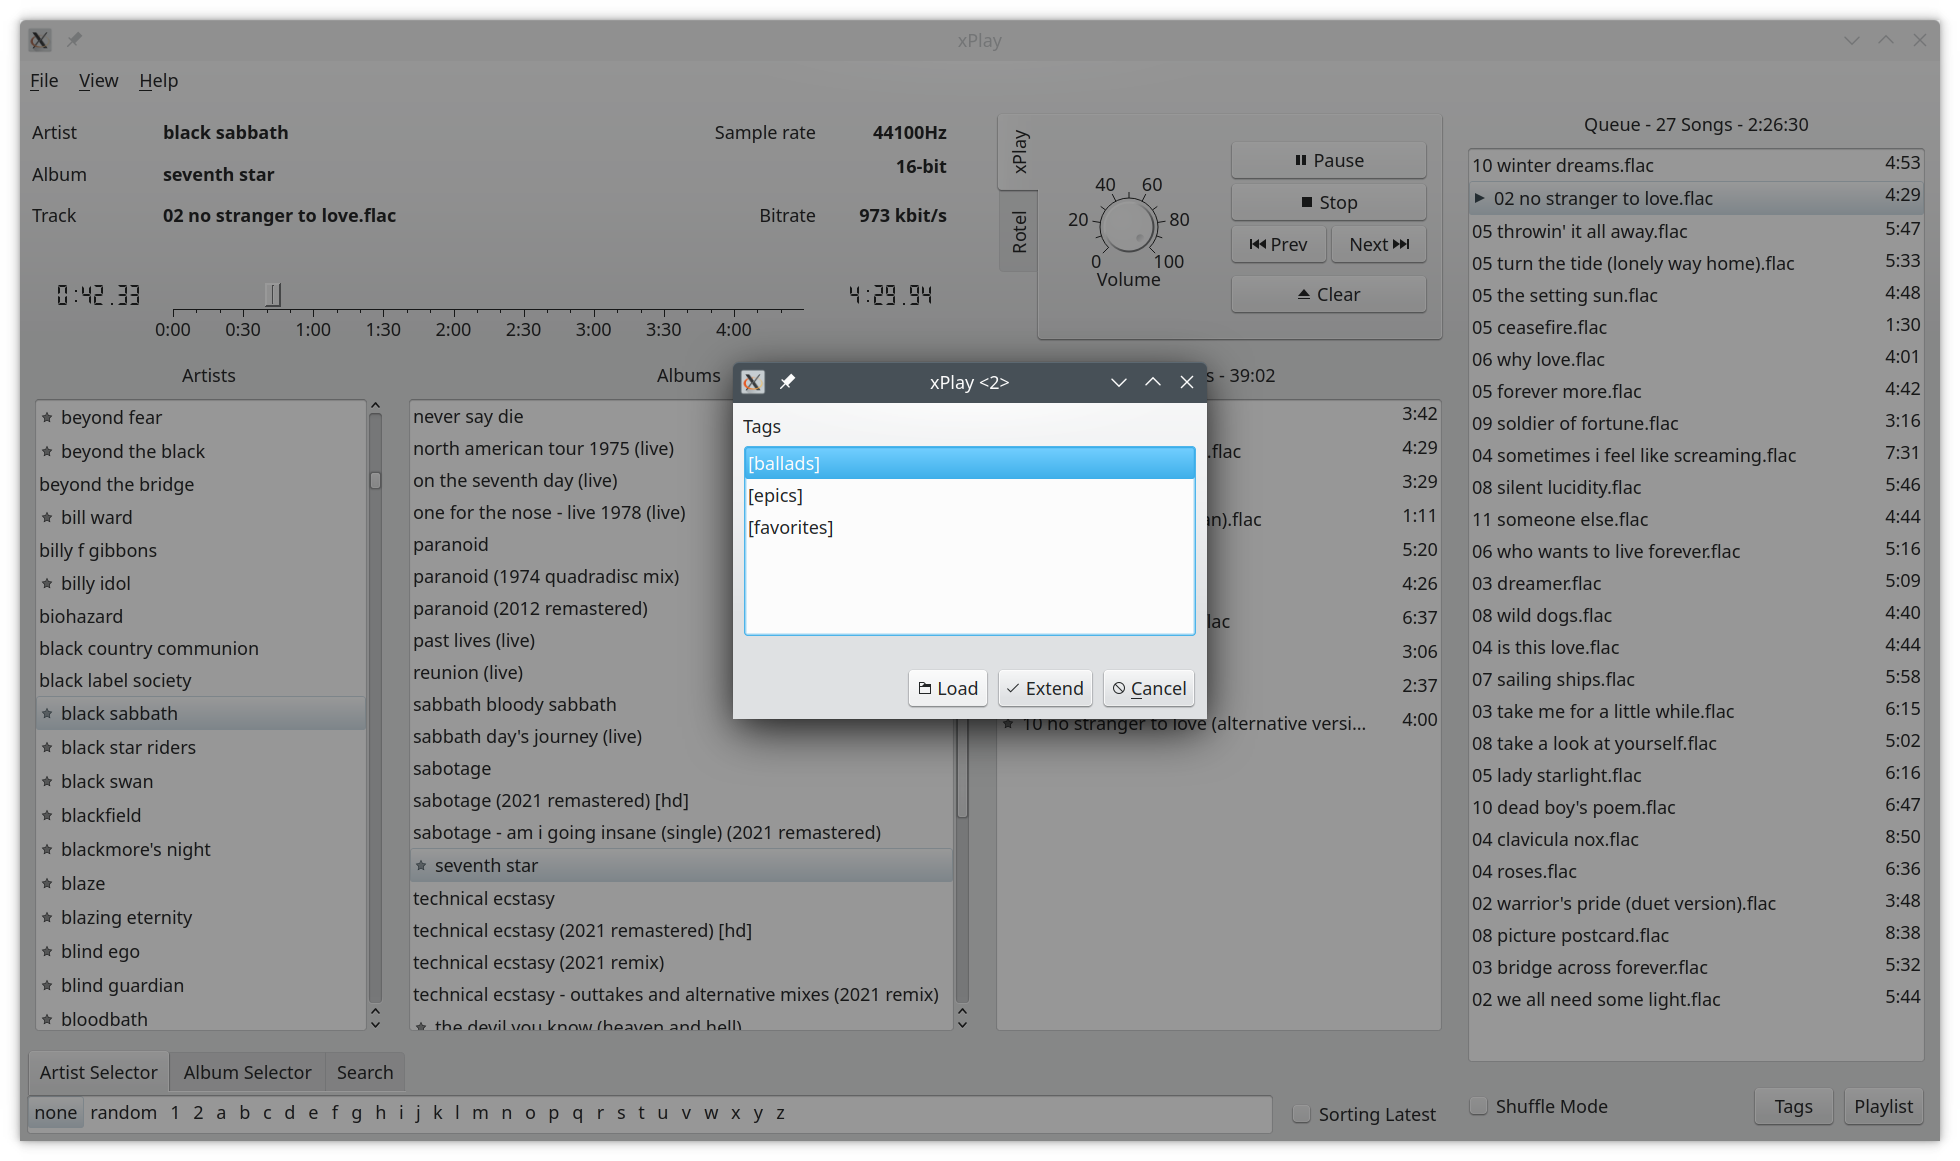
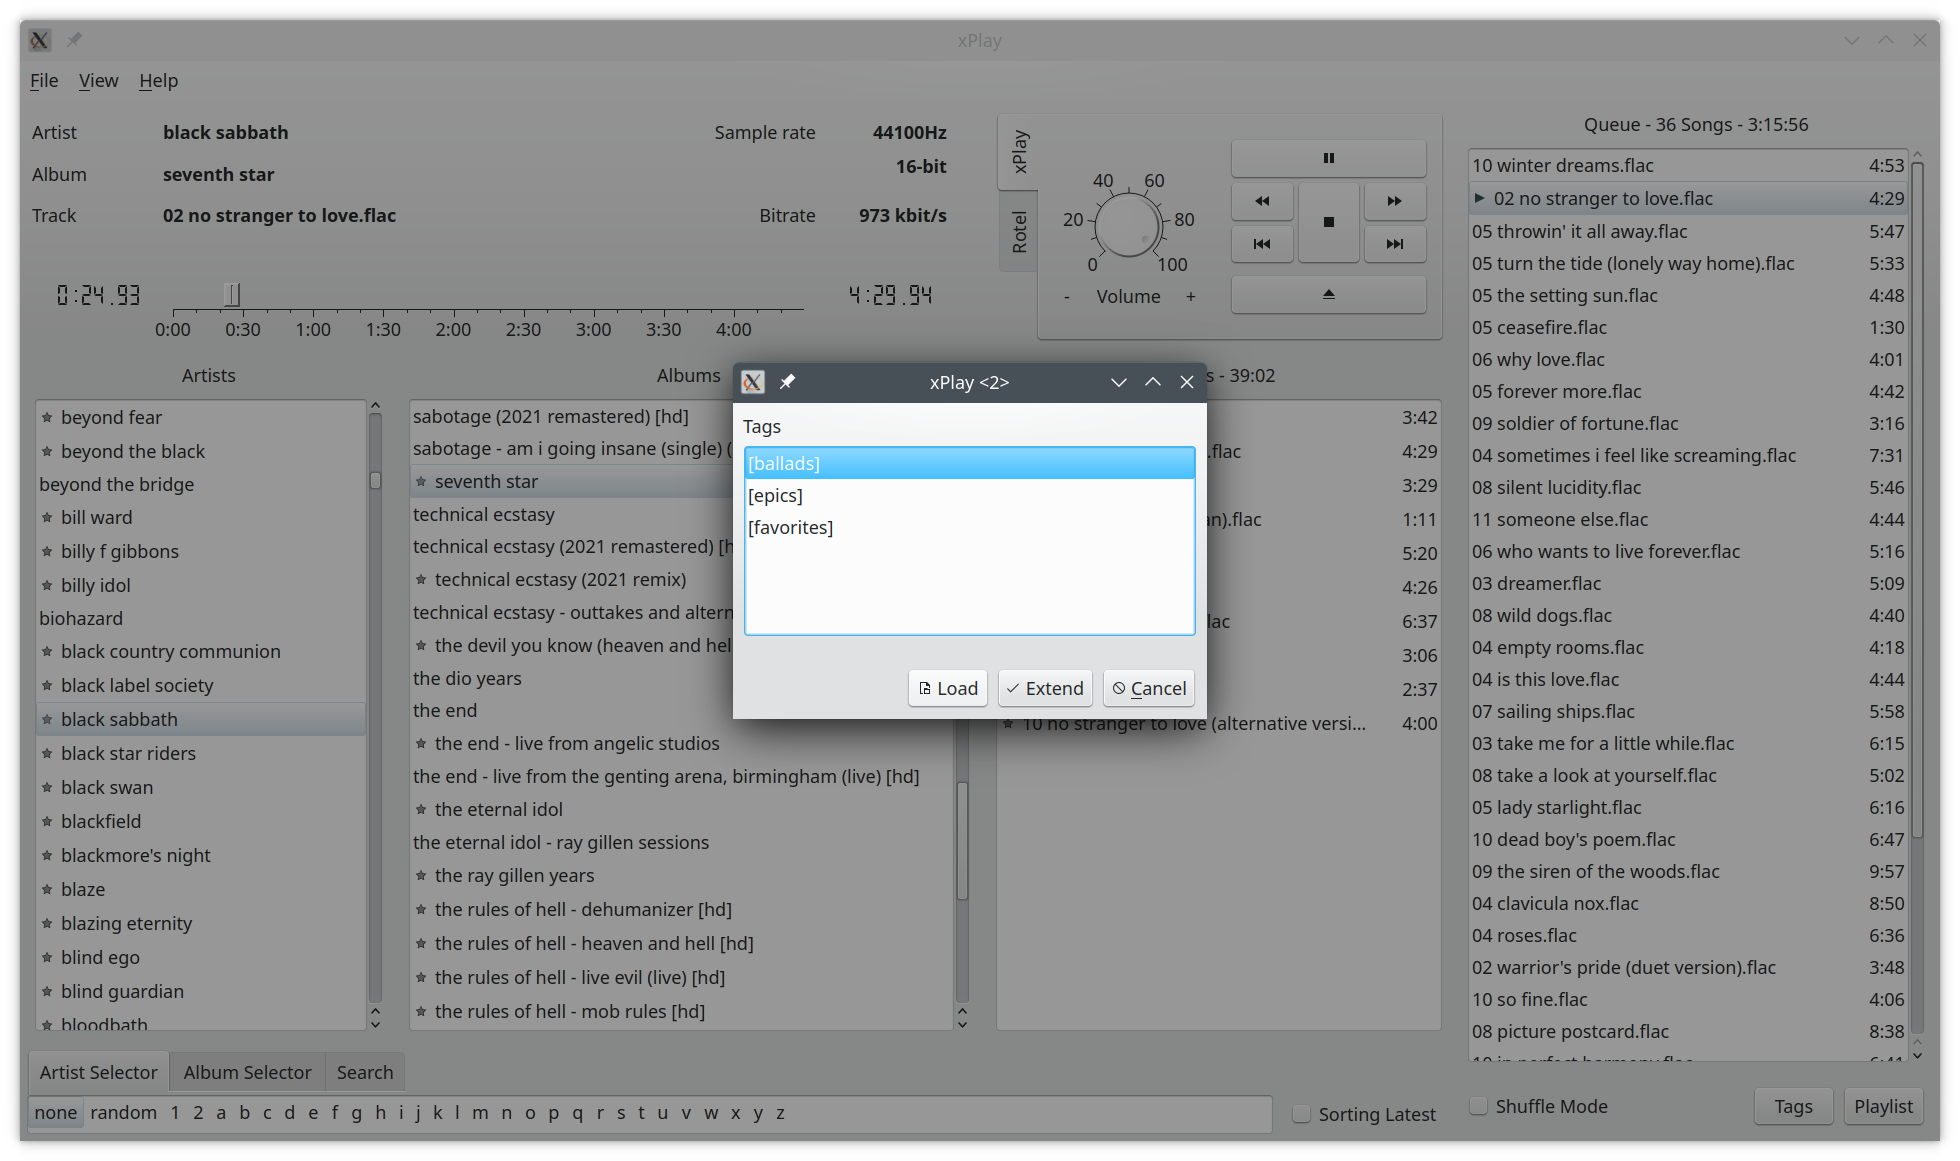
Update CHANGELOG.md and README.md. Update screenshots and version number.

diff --git a/xPlay.cpp b/xPlay.cpp
@@ -151,7 +151,7 @@ int main(int argc, char* argv[])
 {
     QApplication playApp(argc, argv);
     QApplication::setApplicationName("xPlay");
-    QApplication::setApplicationVersion("0.12.1");
+    QApplication::setApplicationVersion("0.13.0");
     QCommandLineParser playAppParser;
     if (handleCommandLine(playApp, playAppParser)) {
         // Exit if the command line was handled.

diff --git a/README.md b/README.md
@@ -15,7 +15,7 @@ The directory structure of the music library needs to be as follows.
 * abstrakt algebra/ii/09 enigma.flac
 * iommi/fused/01 dopamine.flac
 
-The movie library is setup differently. It is possible to define tags to which base directories can be
+The movie library is set up differently. It is possible to define tags to which base directories can be
 attached. The movie library scanner will not do a full recursive scan. It will scan only one subdirectory
 further.
 
@@ -30,7 +30,7 @@ See the [changelog](CHANGELOG.md) for the latest development progress.
 
 ### Remarks
 
-I was unhappy with the current media players that try to scan and analyze each and every one of my
+I was unhappy with the current media players that try to scan and analyze each one of my
 personal music library that contains over 65000 files. The scanning took way to long and did not have
 any benefits for me.
 
@@ -55,9 +55,9 @@ of interest.
 ### Movie library
 
 The scanning of the movie library is significantly different due to the fact that there is less structure.
-xPlay supports only one sub directory in the movie library base. All sub directories and movie files are
+xPlay supports only one subdirectory in the movie library base. All subdirectories and movie files are
 grouped by a tag. Each tag itself can have multiple directories associated. The movie scanning assumes that the
-movie files in each of the sub directory are distinct. No duplicate names are allowed. Earlier entries will be
+movie files in each of the subdirectory are distinct. No duplicate names are allowed. Earlier entries will be
 overwritten and previous movie file is not accessible.
 
 ## Player Backends
@@ -66,12 +66,18 @@ overwritten and previous movie file is not accessible.
 
 The Phonon/KDE backend supports gapless playback, but it is a bit more complicated to use. On top, there seems
 to be an issue calculating the length of the currently played track. I worked around this issue by utilizing
-the a muted QMediaPlayer object. The Phonon backend is only used for the music player.
+a muted QMediaPlayer object. The Phonon backend is only used for the music player.
 
 ### VLC
 
 The VLC backend is used for the movie player. It replaced the earlier Phonon backend due to stability issues.
 xPlay uses the event based method for libVLC without using a QTimer thread to constantly updating the status.
+
+### PulseAudio
+
+The volume changes are applied to the default PulseAudio sink, not to the xPlay application stream. If the volume
+is muted then the PulseAudio sink and the application stream are both muted. The volume for the application stream
+is set to a 100 percent.
 
 ## Usage
 
@@ -99,7 +105,7 @@ The main screen of the music view has four vertical list for the artists, album,
 album list is updated if you click (or select) on an artist and the track list is updated if you click (or select)
 on an album. If you double-click on a track in the track list, then the track and the following tracks of the list
 are added to the queue. If you right-click on a track in the track list, then only this track will be added to the
-queue. Then entire album can be queued by a double click on the corresponding album entry. A double click on an
+queue. Then entire album can be queued by a double-click on the corresponding album entry. A double-click on an
 artist entry will queue all albums for the clicked artist.
 
 The queue does support a shuffle mode in which the queued tracks will be played at random. The jump to an individual
@@ -134,7 +140,7 @@ the *Tags* button at the bottom of the queue list. The tag dialog allows to load
 have a specific tag.
 
 The artist, album and track name can be modified. If the queue is empty and no music file is playing then a
-shifh-right click on an artist, album or track entry will open a popup menu that allows us to rename the
+shift-right click on an artist, album or track entry will open a popup menu that allows us to rename the
 entry. The corresponding directory (for artist and album) or the file name (for track) will be renamed. The tags of
 all affected music files will be updated as well as any matching database entries.
 
@@ -145,7 +151,7 @@ as well as the balance (from -5 to +5).
 #### Visualization
 
 A music visualization based on projectM is available and can be activated via the *Visualization* entry of the 
-*Music View* sub menu. The visualization (when activated) is displayed whenever the the music player is playing and
+*Music View* sub menu. The visualization (when activated) is displayed whenever the music player is playing and
 the artist info view is currently not activated. The visualization (when displayed) reverts to the artist, album and
 track view whenever the music player pauses or stops. A right-click on the visualization opens a popup menu that allows
 selecting a projectM preset. A double-click will display the name of the currently selected preset. A double-click on
@@ -170,12 +176,12 @@ The tracks ordering is not affected by this option. The checkbox is cleared when
 ##### Album Selector
 
 The album selector can be used to filter the displayed albums for an artist. The individual selectors can be modified
-by double-click. A selector in white is currently not used. Selectors in green (at least one of them) must be found in
-the album name. Red represents not matched selectors. An album cannot contain any of the selectors in red as part of its
-album name. The *database* selector uses a mapping of artist and albums are stored in the databases and that have
+by double-click. A selector in white is currently not used. Selectors in green (at least one of them) must be found as
+part of the album name. Red represents not matched selectors. An album cannot contain any of the selectors in red as part 
+of its album name. The *database* selector uses a mapping of artist and albums are stored in the databases and that have
 been played after the given timestamp. The timestamp can easily be adjusted directly or by using the *Now* button
 (current time) or the *Begin* button (beginning of the database). The *database* selector allows to easily filter for
-albums that never have been played or that have recently been played. The *none* selector clears any filtering.
+albums that have never been played or that have recently been played. The *none* selector clears any filtering.
 
 The filtering done by the album selector is applied whenever a selector state changes. The filtering is performed
 on the music library level meaning that artists that do not have any albums that pass the album selector will be
@@ -211,8 +217,8 @@ is shown if it matches the given filter string.
 ![Screenshot Movie View (database overlay)](screenshots/xplay_screenshot_movie_view_02.png)
 
 The main screen of the movie view has three vertical lists for tags, directories and movies. A tag is a
-representation of one or more base directories. The directory list contains all sub directories (only one level)
-of these. An additional entry "." is added for all movies that are not located within a sub directory. The
+representation of one or more base directories. The directory list contains all subdirectories (only one level)
+of these. An additional entry "." is added for all movies that are not located within a subdirectory. The
 movie list displays all movie files, but this list does not act as a queue. Double-click on an entry in the
 movie list will start the playback. The database overlay (if activated) will mark every tag, directory and movie
 with a star (*) if it has been played within the configured time period. For each movie a tooltip is added that
@@ -224,7 +230,7 @@ control section has a *play/pause* and *stop* buttons. The *rew* and *fwd* butto
 forward in the movie. The *full window* button maximizes the video output window. The currently played movie will
 be displayed in the window title. The *scale and crop* checkbox may be usable for some movies that have black borders.
 It is activated by default for the VLC based movie player. The video output window can also be toggled by a
-double-click. In addition you can rewind and forward by 60 seconds using the left and right arrow keys. The up and down
+double-click. In addition, you can rewind and forward by 60 seconds using the left and right arrow keys. The up and down
 arrow keys will increase or decrease the volume by one. The *S* key will toggle the scale and crop mode. The *ESC* key
 can be used to end the full window mode. The full window mode will automatically end if the current movie is about to
 end. If the *Autoplay Next* in the *Options* menu is enabled then the next movie in the movie list will be played as 
@@ -258,7 +264,7 @@ may change for coming versions of QWebEngine.
 ![Screenshot Mobile Sync View (Mark Existing)](screenshots/xplay_screenshot_mobile_sync_view_03.png)
 ![Screenshot Mobile Sync View (Progress)](screenshots/xplay_screenshot_mobile_sync_view_04.png)
 
-The main screen of the mobile sync view is designed to sync a subset of the music library to the so called mobile
+The main screen of the mobile sync view is designed to sync a subset of the music library to the so-called mobile
 library which is usually located on some external storage. The directory for the mobile library can input directory or 
 conveniently selected via a file dialog when pressing the *Open* button. Press the *Scan* button afterwards to 
 initiate a scan of the mobile library. The widget is updated as soon as the scanning process is finished.
@@ -318,8 +324,9 @@ and the KDE 5.x breeze icons.
 * SQLite3 - The Database Access Library (https://sqlite.org/)
 * TagLib Audio Meta-Data Library (https://taglib.org/)
 * libVLC Library (https://wiki.videolan.org/LibVLC/)
-* projectM library (https://github.com/projectM-visualizer/projectm)
-* C++17
+* libpulse Library (https://freedesktop.org/software/pulseaudio/doxygen)
+* projectM Library (https://github.com/projectM-visualizer/projectm)
+* C++17 (clang or gcc)
 
 With Qwt the UI has an improved volume knob and track slider.
 
@@ -335,6 +342,10 @@ With Qwt the UI has an improved volume knob and track slider.
 * VLC audio issues
     * Using VLC on Ubuntu 22.04 can lead to audio stutter after seeking within the movie itself.
     * A workaround switching audio channels back and forth has been implemented.
+* PulseAudio
+    * Changing the default audio sink may not be recognized.
+    * Changing the volume outside xPlay is not recognized by xPlay.
+* May need to use clang instead of gcc for Ubuntu 20.04.  
 
 ## Notes
 

diff --git a/CHANGELOG.md b/CHANGELOG.md
@@ -1,6 +1,17 @@
 # Changelog
 
 
+## 0.13.0 - 2022-08-22
+
+- Many UI updates.
+- Add music library scanning progress.
+- Add audio compression option for movie player.
+- Use default pulseaudio sink instead of application stream for volume control.
+- Add configuration option for website user agent.
+- More libvlc audio fixes.
+- Some code cleanup.
+
+
 ## 0.12.1 - 2022-06-05
 
 - Add filesystem sync after the copy/remove operations in mobile sync view.
